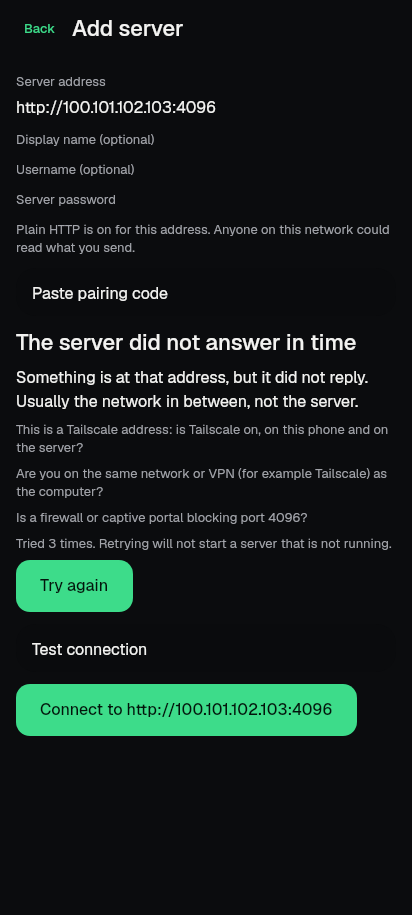
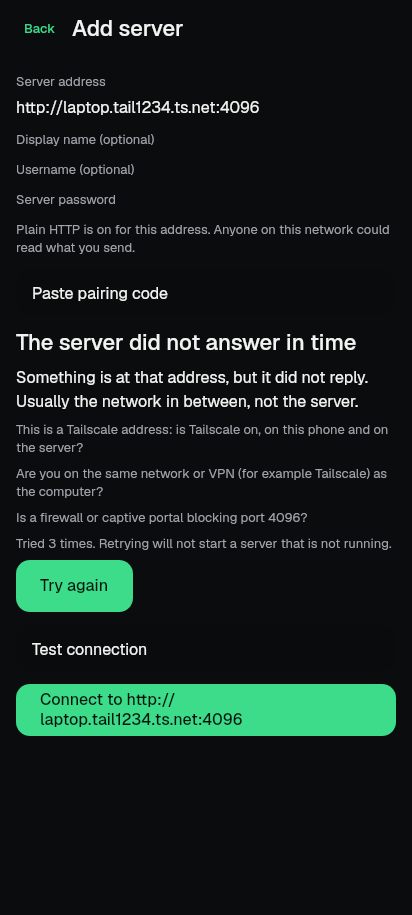
test(native/servers): use .local and .ts.net names instead of private IP literals [skip ci]
Same classifications under :core:security (private network, Tailnet); goldens re-recorded.

Claude-Session: https://claude.ai/code/session_01XdLZSF2s9jNSy85JrAQ6rE

Changed region(s): [[0.0874, 0.7344, 0.8155, 0.7956], [0.1456, 0.0918, 0.6408, 0.1224], [0.8447, 0.7344, 0.9612, 0.8262]]

diff --git a/native/feature/servers/src/commonTest/kotlin/io/github/eslamasabry/oc/feature/servers/PairingTest.kt b/native/feature/servers/src/commonTest/kotlin/io/github/eslamasabry/oc/feature/servers/PairingTest.kt
@@ -209,28 +209,28 @@ class PairingTest {
         runTest {
             val probed = mutableListOf<ServerOrigin>()
             val probe: suspend (ProbeTarget) -> Outcome<ProbeAnswer> = { probed += it.origin; v2Ok }
-            val p = parsed(pairJson(listOf("http://192.168.1.20:4097")))
+            val p = parsed(pairJson(listOf("http://desk.local:4097")))
             val held = dialer(probe).select(p)
             assertTrue(probed.isEmpty())
             assertFalse(held.ok)
             val outcome = held.outcomes.single()
             assertEquals(AddressVerdict.NeedsCleartextConsent, outcome.verdict)
             assertFalse(outcome.probed)
-            assertEquals("http://192.168.1.20:4097", outcome.display)
-            assertEquals(listOf(ServerOrigin("http", "192.168.1.20", 4097)), held.heldForConsent)
+            assertEquals("http://desk.local:4097", outcome.display)
+            assertEquals(listOf(ServerOrigin("http", "desk.local", 4097)), held.heldForConsent)
 
-            val confirmed = dialer(probe, confirmed = setOf(ServerOrigin("http", "192.168.1.20", 4097))).select(p)
-            assertEquals(listOf(ServerOrigin("http", "192.168.1.20", 4097)), probed)
-            assertEquals(ServerOrigin("http", "192.168.1.20", 4097), confirmed.chosen)
-            assertEquals(ServerOrigin("http", "192.168.1.20", 4097), confirmed.chosenTarget?.consentedOrigin)
+            val confirmed = dialer(probe, confirmed = setOf(ServerOrigin("http", "desk.local", 4097))).select(p)
+            assertEquals(listOf(ServerOrigin("http", "desk.local", 4097)), probed)
+            assertEquals(ServerOrigin("http", "desk.local", 4097), confirmed.chosen)
+            assertEquals(ServerOrigin("http", "desk.local", 4097), confirmed.chosenTarget?.consentedOrigin)
         }
 
     @Test
     fun `B-SEC-124 a different private origin is not covered by the confirmation`() =
         runTest {
-            val p = parsed(pairJson(listOf("http://192.168.1.21:4097")))
+            val p = parsed(pairJson(listOf("http://attic.local:4097")))
             val selection =
-                dialer({ fail("must not be dialed: ${it.origin}") }, confirmed = setOf(ServerOrigin("http", "192.168.1.20", 4097)))
+                dialer({ fail("must not be dialed: ${it.origin}") }, confirmed = setOf(ServerOrigin("http", "desk.local", 4097)))
                     .select(p)
             assertEquals(AddressVerdict.NeedsCleartextConsent, selection.outcomes.single().verdict)
         }

diff --git a/native/feature/servers/src/commonTest/kotlin/io/github/eslamasabry/oc/feature/servers/EditorViewModelTest.kt b/native/feature/servers/src/commonTest/kotlin/io/github/eslamasabry/oc/feature/servers/EditorViewModelTest.kt
@@ -50,15 +50,15 @@ class EditorViewModelTest {
         runTest {
             val port = FakeServersPort()
             val vm = editor(port)
-            typed(vm, "http://192.168.1.20:4096")
+            typed(vm, "http://desk.local:4096")
             assertTrue(port.probes.isEmpty())
             val ask = assertNotNull(vm.state.value.consent)
-            assertEquals(ServerOrigin("http", "192.168.1.20", 4096), ask.origin)
+            assertEquals(ServerOrigin("http", "desk.local", 4096), ask.origin)
             assertFalse(ask.public)
 
             vm.allowHttp()
             runCurrent()
-            assertEquals(ServerOrigin("http", "192.168.1.20", 4096), port.probes.single().consentedOrigin)
+            assertEquals(ServerOrigin("http", "desk.local", 4096), port.probes.single().consentedOrigin)
             assertIs<EditorVerdict.Answered>(vm.state.value.verdict)
         }
 
@@ -83,10 +83,10 @@ class EditorViewModelTest {
             val vm = editor(port)
             typed(vm, "http://127.0.0.1:4096")
             assertNull(vm.state.value.consent)
-            typed(vm, "192.168.1.20:4096")
+            typed(vm, "desk.local:4096")
             assertNull(vm.state.value.consent)
             assertEquals(
-                listOf(ServerOrigin("http", "127.0.0.1", 4096), ServerOrigin("https", "192.168.1.20", 4096)),
+                listOf(ServerOrigin("http", "127.0.0.1", 4096), ServerOrigin("https", "desk.local", 4096)),
                 port.probes.map { it.origin },
             )
         }
@@ -207,14 +207,14 @@ class EditorViewModelTest {
             val port = FakeServersPort()
             val vm = editor(port)
             vm.useEntry(EntryKind.PairingCode)
-            vm.setCode("""{"urls":["http://192.168.1.20:4097"],"password":"x"}""")
+            vm.setCode("""{"urls":["http://desk.local:4097"],"password":"x"}""")
             vm.test()
             runCurrent()
             assertTrue(port.probes.isEmpty())
-            assertEquals(ServerOrigin("http", "192.168.1.20", 4097), assertNotNull(vm.state.value.consent).origin)
+            assertEquals(ServerOrigin("http", "desk.local", 4097), assertNotNull(vm.state.value.consent).origin)
             vm.allowHttp()
             runCurrent()
-            assertEquals(listOf(ServerOrigin("http", "192.168.1.20", 4097)), port.probes.map { it.origin })
+            assertEquals(listOf(ServerOrigin("http", "desk.local", 4097)), port.probes.map { it.origin })
         }
 
     @Test

diff --git a/native/feature/servers/src/desktopTest/kotlin/io/github/eslamasabry/oc/feature/servers/ServersGoldensTest.kt b/native/feature/servers/src/desktopTest/kotlin/io/github/eslamasabry/oc/feature/servers/ServersGoldensTest.kt
@@ -75,7 +75,7 @@ class ServersGoldensTest {
                     RulesAddressPolicy,
                 ),
             ),
-            ServerRowUi(ProfileId("at"), "Attic", "http://192.168.1.20:4096", ServerStatus.NotConnected, false, false, null),
+            ServerRowUi(ProfileId("at"), "Attic", "http://desk.local:4096", ServerStatus.NotConnected, false, false, null),
         )
 
     @Test
@@ -118,13 +118,13 @@ class ServersGoldensTest {
             EditorScreen(
                 EditorUi(
                     entry = EntryKind.Address,
-                    address = "http://100.101.102.103:4096",
+                    address = "http://laptop.tail1234.ts.net:4096",
                     cleartextAllowed = true,
                     verdict =
                         EditorVerdict.Failed(
                             ConnectionDiagnosis.diagnose(
                                 Net.Unreachable(Net.Unreachable.Why.Timeout),
-                                ServerOrigin("http", "100.101.102.103", 4096),
+                                ServerOrigin("http", "laptop.tail1234.ts.net", 4096),
                                 DiagnosisContext(BackendKind.OpenCode2, supportsTermux = true, attempts = 3),
                                 RulesAddressPolicy,
                             ),

diff --git a/native/feature/servers/src/desktopTest/kotlin/io/github/eslamasabry/oc/feature/servers/ServersScreensTest.kt b/native/feature/servers/src/desktopTest/kotlin/io/github/eslamasabry/oc/feature/servers/ServersScreensTest.kt
@@ -78,7 +78,7 @@ class ServersScreensTest {
             val vm = editor(port, RecordingServersNavigator())
             vm.useEntry(EntryKind.Address)
             setContent { ServersHost { val s by vm.state.collectAsState(); EditorScreen(s, vm) } }
-            onNodeWithTag("Server address").performTextInput("http://192.168.1.20:4096")
+            onNodeWithTag("Server address").performTextInput("http://desk.local:4096")
             onNodeWithText("Test connection").performClick()
             waitForIdle()
             onNodeWithText("Use unencrypted HTTP?").assertIsDisplayed()
@@ -86,7 +86,7 @@ class ServersScreensTest {
             assertTrue(port.probes.isEmpty())
             onNodeWithText("Allow HTTP for this server").performClick()
             waitForIdle()
-            assertEquals(listOf(ServerOrigin("http", "192.168.1.20", 4096)), port.probes.map { it.origin })
+            assertEquals(listOf(ServerOrigin("http", "desk.local", 4096)), port.probes.map { it.origin })
             onNodeWithText("Connection verified. Save and connect to continue.").assertIsDisplayed()
         }
 

diff --git a/native/feature/servers/src/commonTest/kotlin/io/github/eslamasabry/oc/feature/servers/ConnectionDiagnosisTest.kt b/native/feature/servers/src/commonTest/kotlin/io/github/eslamasabry/oc/feature/servers/ConnectionDiagnosisTest.kt
@@ -164,7 +164,7 @@ class ConnectionDiagnosisTest {
 
     @Test
     fun `B-NAV-008 a Tailscale address that did not answer says to check Tailscale first`() {
-        val f = d(refused, origin = ServerOrigin("http", "100.101.102.103", 4096))
+        val f = d(refused, origin = ServerOrigin("http", "laptop.tail1234.ts.net", 4096))
         assertTrue(f.tailnet)
         assertEquals(FailureCheck.TailscaleOn, f.checks.first())
         // A refused sign-in means Tailscale did its part.
@@ -175,7 +175,7 @@ class ConnectionDiagnosisTest {
 
     @Test
     fun `B-NAV-008 an unconfirmed plain-HTTP address asks to review the HTTP warning, never to retry`() {
-        val f = d(Net.TrustRefused(Net.TrustRefused.Why.CleartextNotConfirmed), origin = ServerOrigin("http", "192.168.1.20", 4096))
+        val f = d(Net.TrustRefused(Net.TrustRefused.Why.CleartextNotConfirmed), origin = ServerOrigin("http", "desk.local", 4096))
         assertEquals(FailureKind.HttpUnconfirmed, f.kind)
         assertEquals(FailureAction.EditServer, f.primary)
     }

diff --git a/native/feature/servers/src/commonTest/kotlin/io/github/eslamasabry/oc/feature/servers/ServersViewModelsTest.kt b/native/feature/servers/src/commonTest/kotlin/io/github/eslamasabry/oc/feature/servers/ServersViewModelsTest.kt
@@ -27,7 +27,7 @@ class ServersViewModelsTest {
     private val phone = profile("ph", "This phone", ServerOrigin("http", "127.0.0.1", 4097), onPhone = true)
     private val laptop = profile("lp", "Laptop", ServerOrigin("https", "desk.example", 4096))
     private val laptop2 = profile("l2", "Laptop beta", ServerOrigin("https", "desk.example", 4097), pin = FakeServersPort.SHA)
-    private val lan = profile("ln", "Attic", ServerOrigin("http", "192.168.1.20", 4096), consentAtMs = 5)
+    private val lan = profile("ln", "Attic", ServerOrigin("http", "desk.local", 4096), consentAtMs = 5)
 
     private fun saved(vararg p: io.github.eslamasabry.oc.core.model.ServerProfile, active: String? = null) =
         p.map { SavedServer(it, if (it.id.raw == active) ServerStatus.Connected else ServerStatus.NotConnected, it.id.raw == active) }
